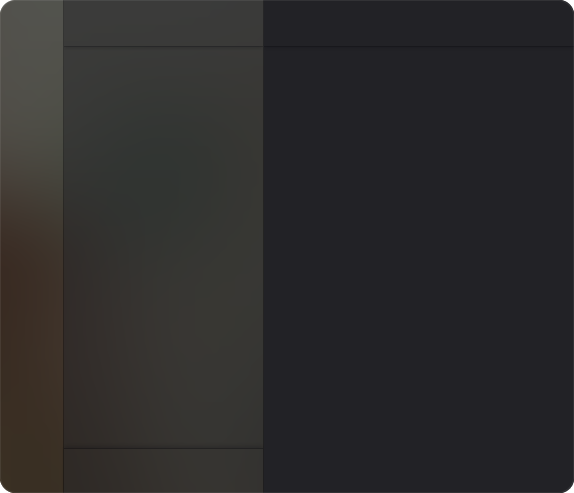
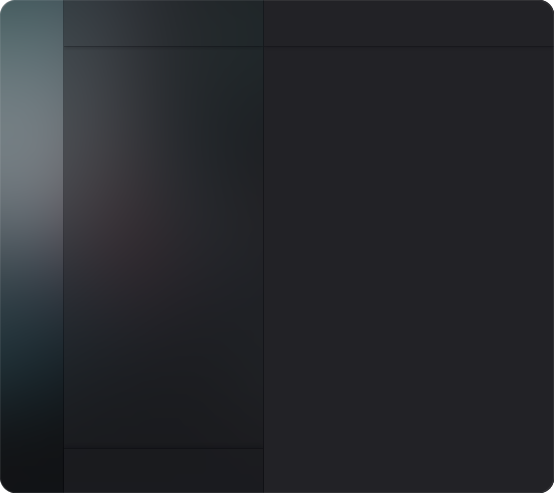
docs: new readme & screenshots

Changed region(s): [[0.0, 0.0, 0.1534, 1.0], [0.1841, 0.6085, 0.4603, 1.0], [0.3989, 0.0, 0.4603, 0.2434]]

diff --git a/README.md b/README.md
@@ -2,6 +2,12 @@
 
 A GNOME theme for Discord, following the Adwaita style & GNOME Human Interface Guidelines (with whatever the Discord CSS lets me do).
 
+<picture>
+	<source srcset="assets/preview/theme-dark.png" media="(prefers-color-scheme: dark)">
+	<source srcset="assets/preview/theme-light.png" media="(prefers-color-scheme: light)">
+	<img align="center" src="assets/preview/theme-light.png" alt="Theme preview">
+</picture>
+
 ## Requirements
 
 1. Vesktop
@@ -10,37 +16,19 @@ A GNOME theme for Discord, following the Adwaita style & GNOME Human Interface G
 
    You can still use something else like BetterDiscord - the theme will work but without the usual GNOME headerbar and with BetterDiscord content unthemed.
 
-2. Install [Discord Adblock](https://codeberg.org/ridge/Discord-AdBlock)
+2. Install [Discord Adblock][adblock]
 
    Removes Nitro elements, as they will look out of place.
 
 3. Settings > Language > Choose "English (US)"
 
-   This allows for custom icons due to how they are identified in Discord. You may [localize](./src/global/icons.scss) the theme, but read the localization note.
+   This allows for custom icons due to how they are identified in Discord. You may [localize][css-icons] the theme, but read the localization note.
 
 4. Settings > Plugins > Enable "ThemeAttributes"
 
-   This allows for icons in the settings dialog.
-
-## Theming philosophy
-
-The theme may not fully confine to the HIG because of Discord's either CSS or design limitations or my own choices.
-
-These are not supported:
-
-- Discord experiments
-
-  I do not work for Discord, so I have no way of knowing if these experiments are getting changed, deprecated, etc., i.e. maintenance burden — I maintain several other projects
-
-- Nitro
-
-  Exceptions — anything accessible with the FakeNitro plugin.
-
-You \*can\* open an issue about any of these, but it's only getting fixed if it's an easy fix, i.e. missing icon.
+   This allows for icons in the server settings modal. Optional, does not affect user settings.
 
 ## Installation
-
-### No configuration
 
 Copy the following into the text box located in Settings > Themes > Online Themes:
 
@@ -48,12 +36,23 @@ Copy the following into the text box located in Settings > Themes > Online Theme
 https://raw.githubusercontent.com/ricewind012/discord-gnome-theme/master/gnome.theme.css
 ```
 
-### Including [configuration](#configuration)
-
-Put [gnome.theme.css][css-file] in ~/.config/vesktop/themes. It's still
-updated automatically.
+If you'd like to configure it, put [gnome.theme.css][css-main] in `~/.config/vesktop/themes`. It's still updated automatically.
 
 ## Configuration
+
+### Nitro themes
+
+<picture>
+	<source srcset="assets/preview/nitro-theme-dark.png" media="(prefers-color-scheme: dark)">
+	<source srcset="assets/preview/nitro-theme-light.png" media="(prefers-color-scheme: light)">
+	<img align="right" src="assets/preview/nitro-theme-light.png" alt="Nitro theme preview">
+</picture>
+
+1. Go to Settings > Plugins and enable the FakeNitro plugin.
+2. Set corner smoothing to 0.1 in [Rounded Window Corners Reborn][ext-rounded-window-corners] extension settings.
+3. Set a nitro theme in Settings > Display.
+
+<br clear="right" />
 
 ### Transparent sidebar
 
@@ -66,22 +65,28 @@ updated automatically.
 1. Get the [Blur my Shell][ext-blur-my-shell] extension
 2. In the extension's settings, go to Pipelines > Manage Effects > Add the "Corner" effect. Click on the effect, set "Radius" to 17.
 
-   The Adwaita window corner radius for windows is 15, but setting it to said number will not _fully_ round them. 17 looks good on all windows.
+   The Adwaita window corner radius is 15, but setting it to said number will not _fully_ round them. 17 looks good on all windows.
 
    If the corners stick out, in [Rounded Window Corners Reborn][ext-rounded-window-corners] settings, turn up "Corner Smoothing".
 
-3. In theme's [CSS file][css-file] set `--option-transparent-sidebar` to `true`.
+3. In theme's [CSS file][css-main] set `--option-transparent-sidebar` to `true`.
 
 Settings used for the screenshot were: radius - 100, brightness - 1.00.
 
-<br style="clear: right;" />
+<br clear="right" />
 
-## Preview
+## Unsupported list
 
-![first](./assets/preview/Screenshot%20from%202024-04-27%2011-55-58.png)
-![cozy second](./assets/preview/Screenshot%20from%202024-04-27%2012-31-42.png)
-![third](./assets/preview/Screenshot%20from%202024-04-27%2012-24-16.png)
+- Discord experiments
 
-[css-file]: ./gnome.theme.css
+  I do not work for Discord, so I have no way of knowing if these experiments are getting changed, deprecated, etc.
+
+- Nitro
+
+  Exceptions — anything accessible with the FakeNitro plugin; it does support nitro themes after all.
+
+[adblock]: https://codeberg.org/ridge/Discord-AdBlock
+[css-icons]: ./src/global/icons.scss
+[css-main]: ./gnome.theme.css
 [ext-blur-my-shell]: https://github.com/aunetx/blur-my-shell
 [ext-rounded-window-corners]: https://github.com/flexagoon/rounded-window-corners
